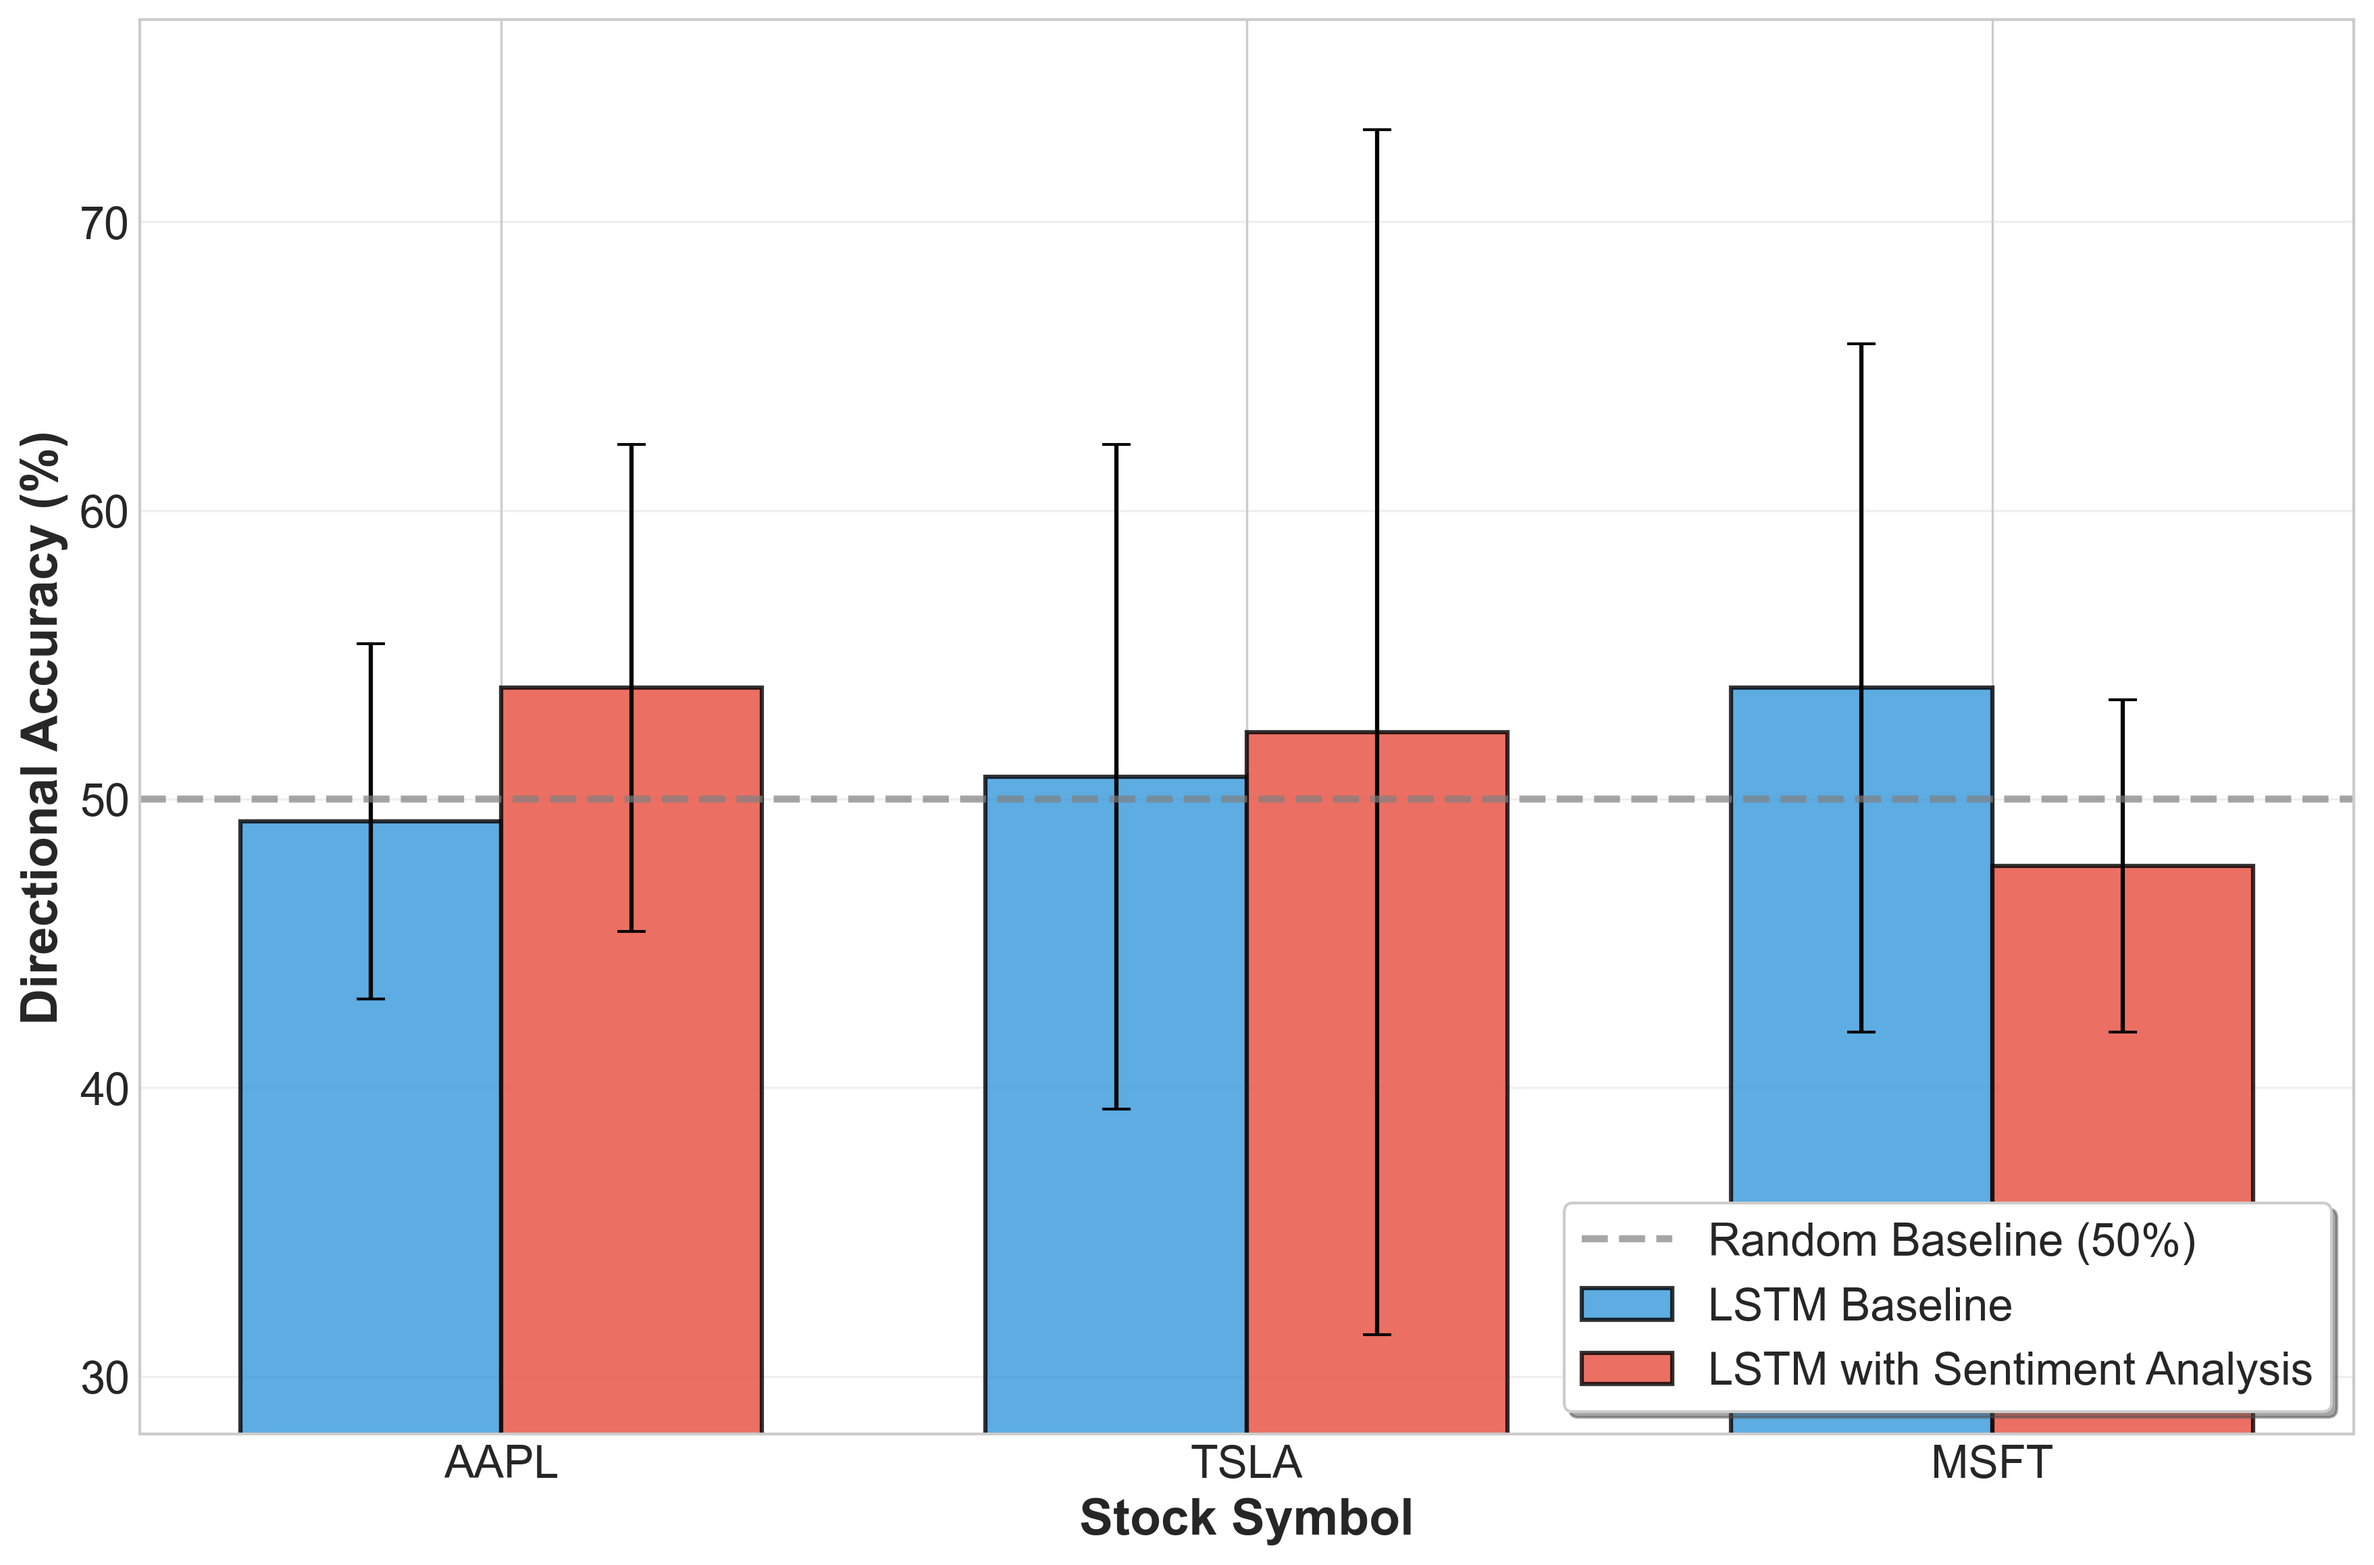
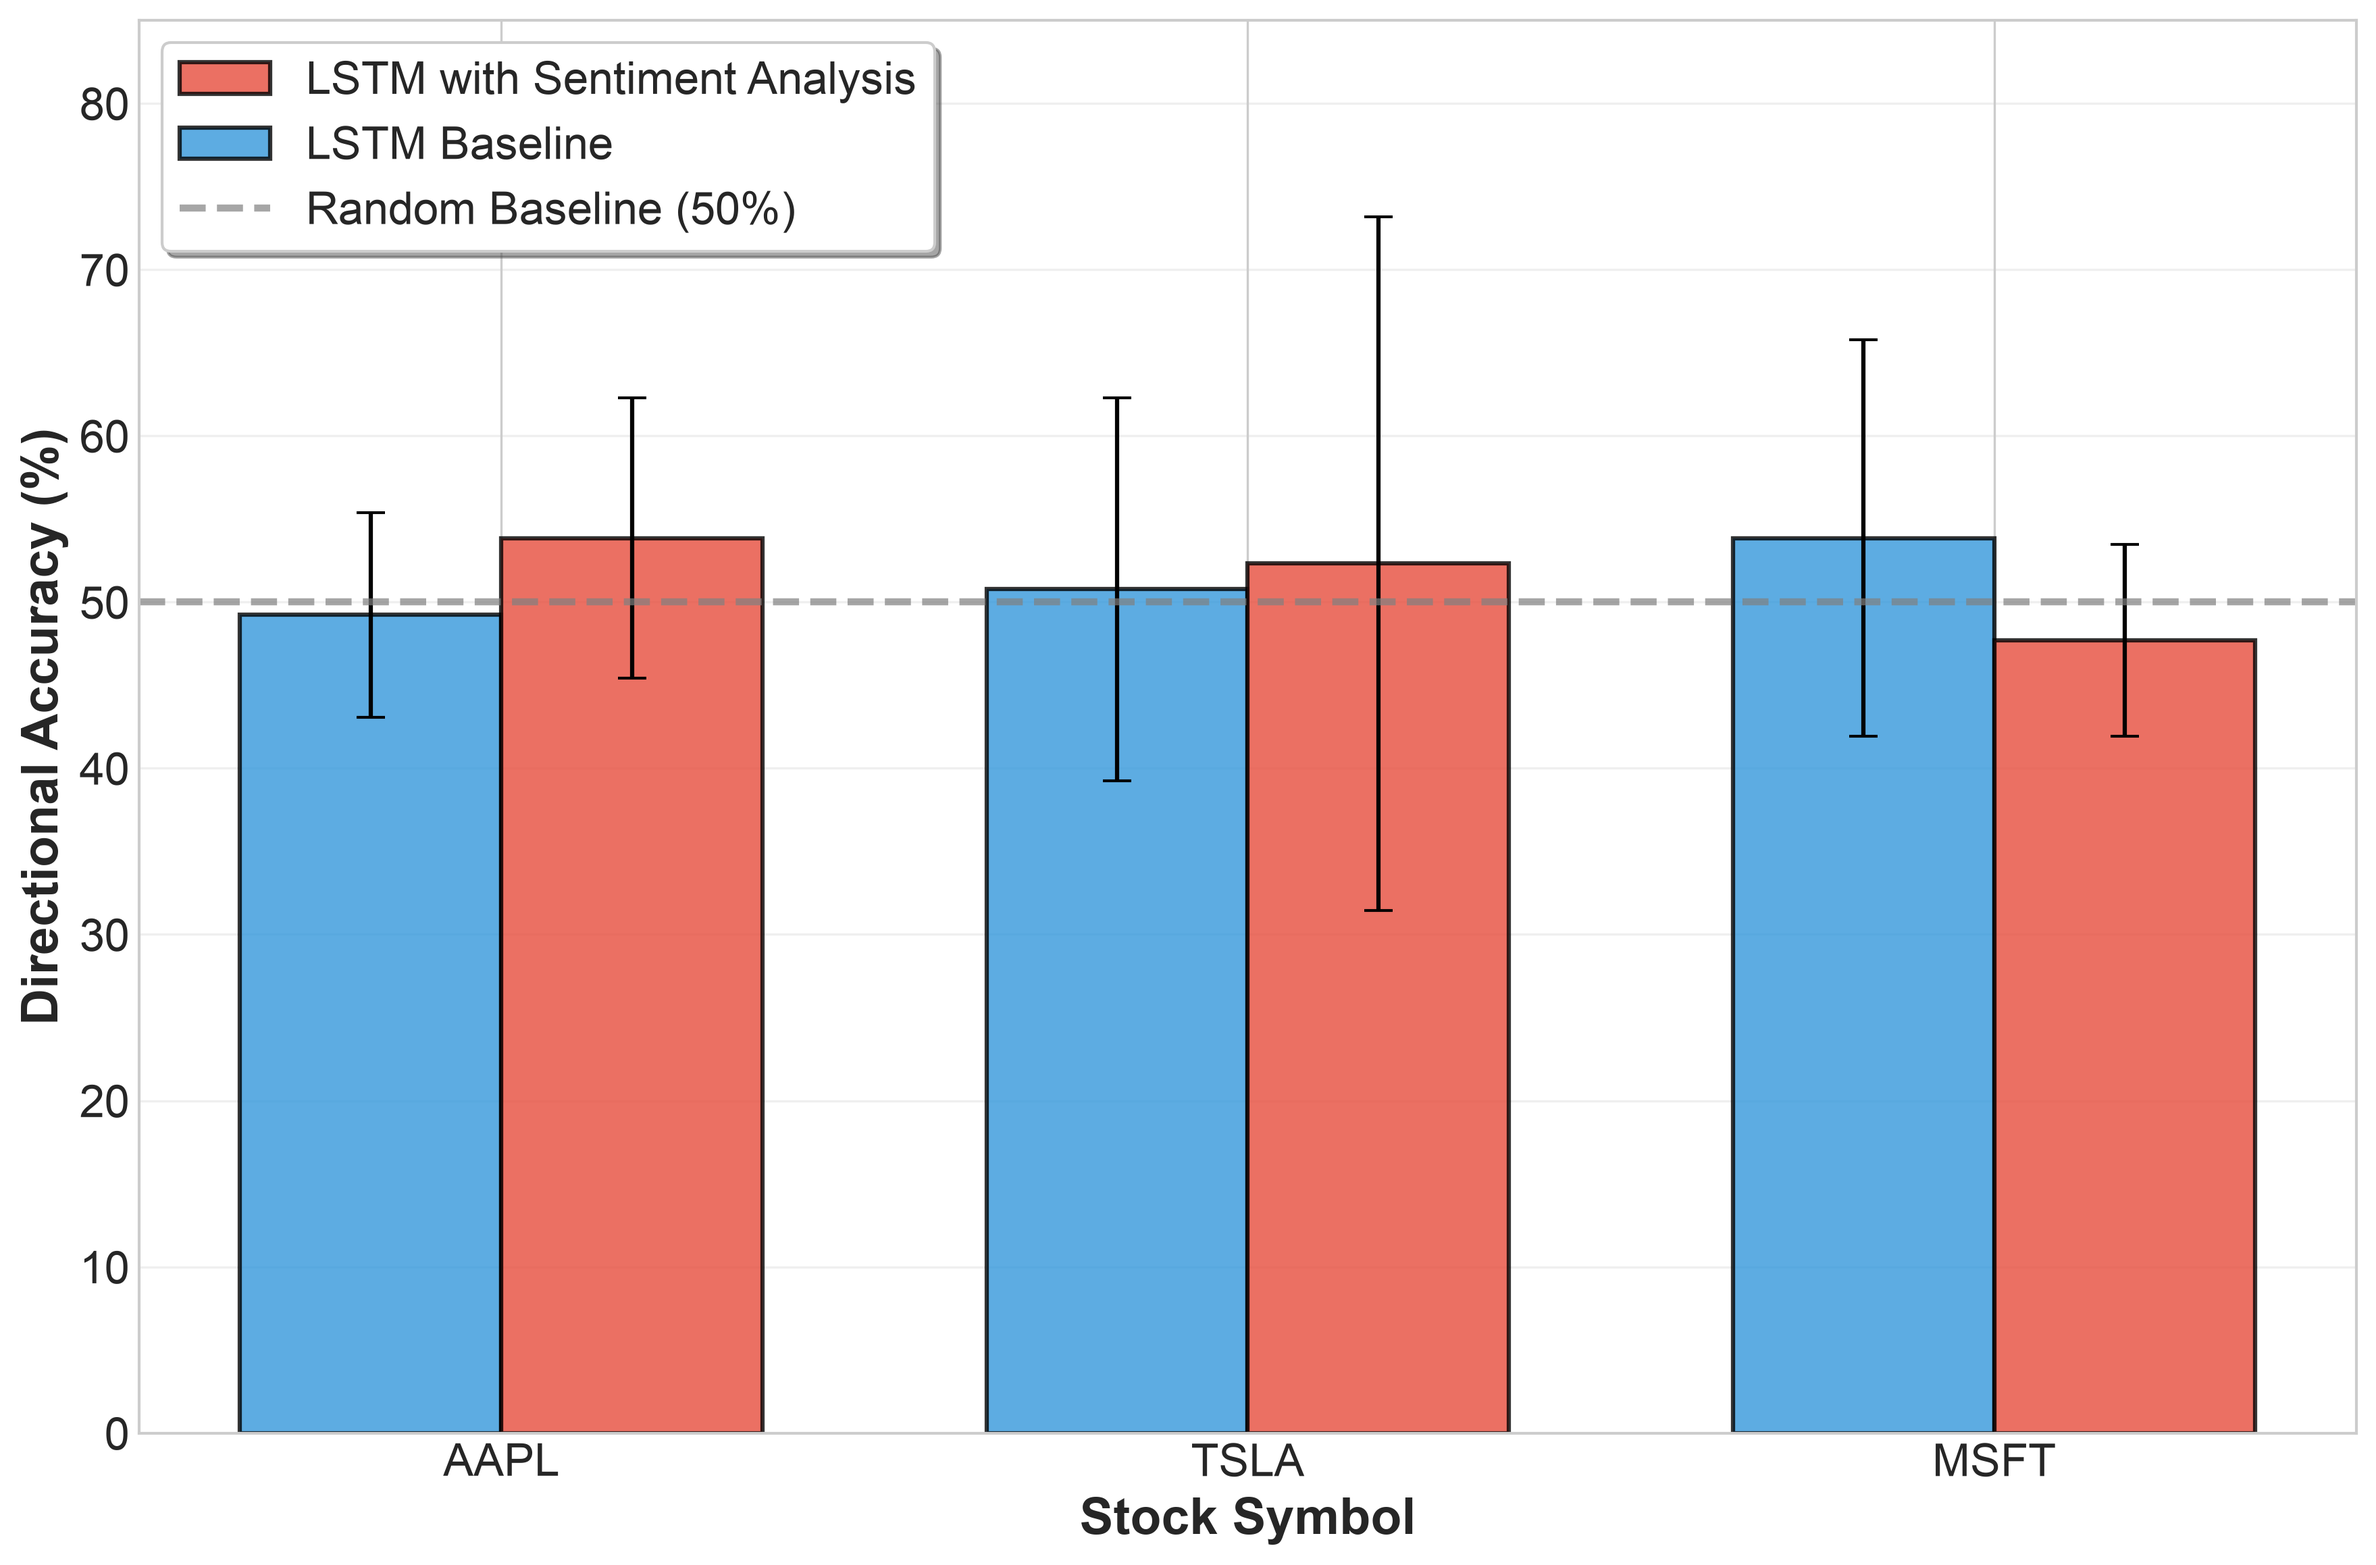
update

diff --git a/create_directional_accuracy_figure.py b/create_directional_accuracy_figure.py
@@ -318,17 +318,20 @@ def create_directional_accuracy_figure(stocks=['AAPL', 'TSLA', 'MSFT']):
                    color='#E74C3C', alpha=0.8, edgecolor='black', linewidth=1.5)
 
     # Add 50% random baseline reference line
-    ax.axhline(y=50, color='gray', linestyle='--', linewidth=2.5, alpha=0.7,
-               label='Random Baseline (50%)')
+    baseline_line = ax.axhline(y=50, color='gray', linestyle='--', linewidth=2.5, alpha=0.7,
+                               label='Random Baseline (50%)')
 
     # Customize plot
     ax.set_xlabel('Stock Symbol', fontweight='bold')
     ax.set_ylabel('Directional Accuracy (%)', fontweight='bold')
     ax.set_xticks(x)
     ax.set_xticklabels(stocks_list)
-    ax.legend(frameon=True, fancybox=True, shadow=True, loc='lower right')
+    # legend entry order matches Figure 1 (sentiment model first)
+    ax.legend(handles=[bars2, bars1, baseline_line],
+              frameon=True, fancybox=True, shadow=True, loc='upper left')
     ax.grid(True, alpha=0.3, axis='y')
-    ax.set_ylim([45, 60])
+    # 0-based axis so bars and error bars are fully visible, matching the other figures
+    ax.set_ylim([0, 85])
 
     plt.tight_layout()
     plt.savefig('Figure7_Directional_Accuracy_Comparison.png', dpi=300,
